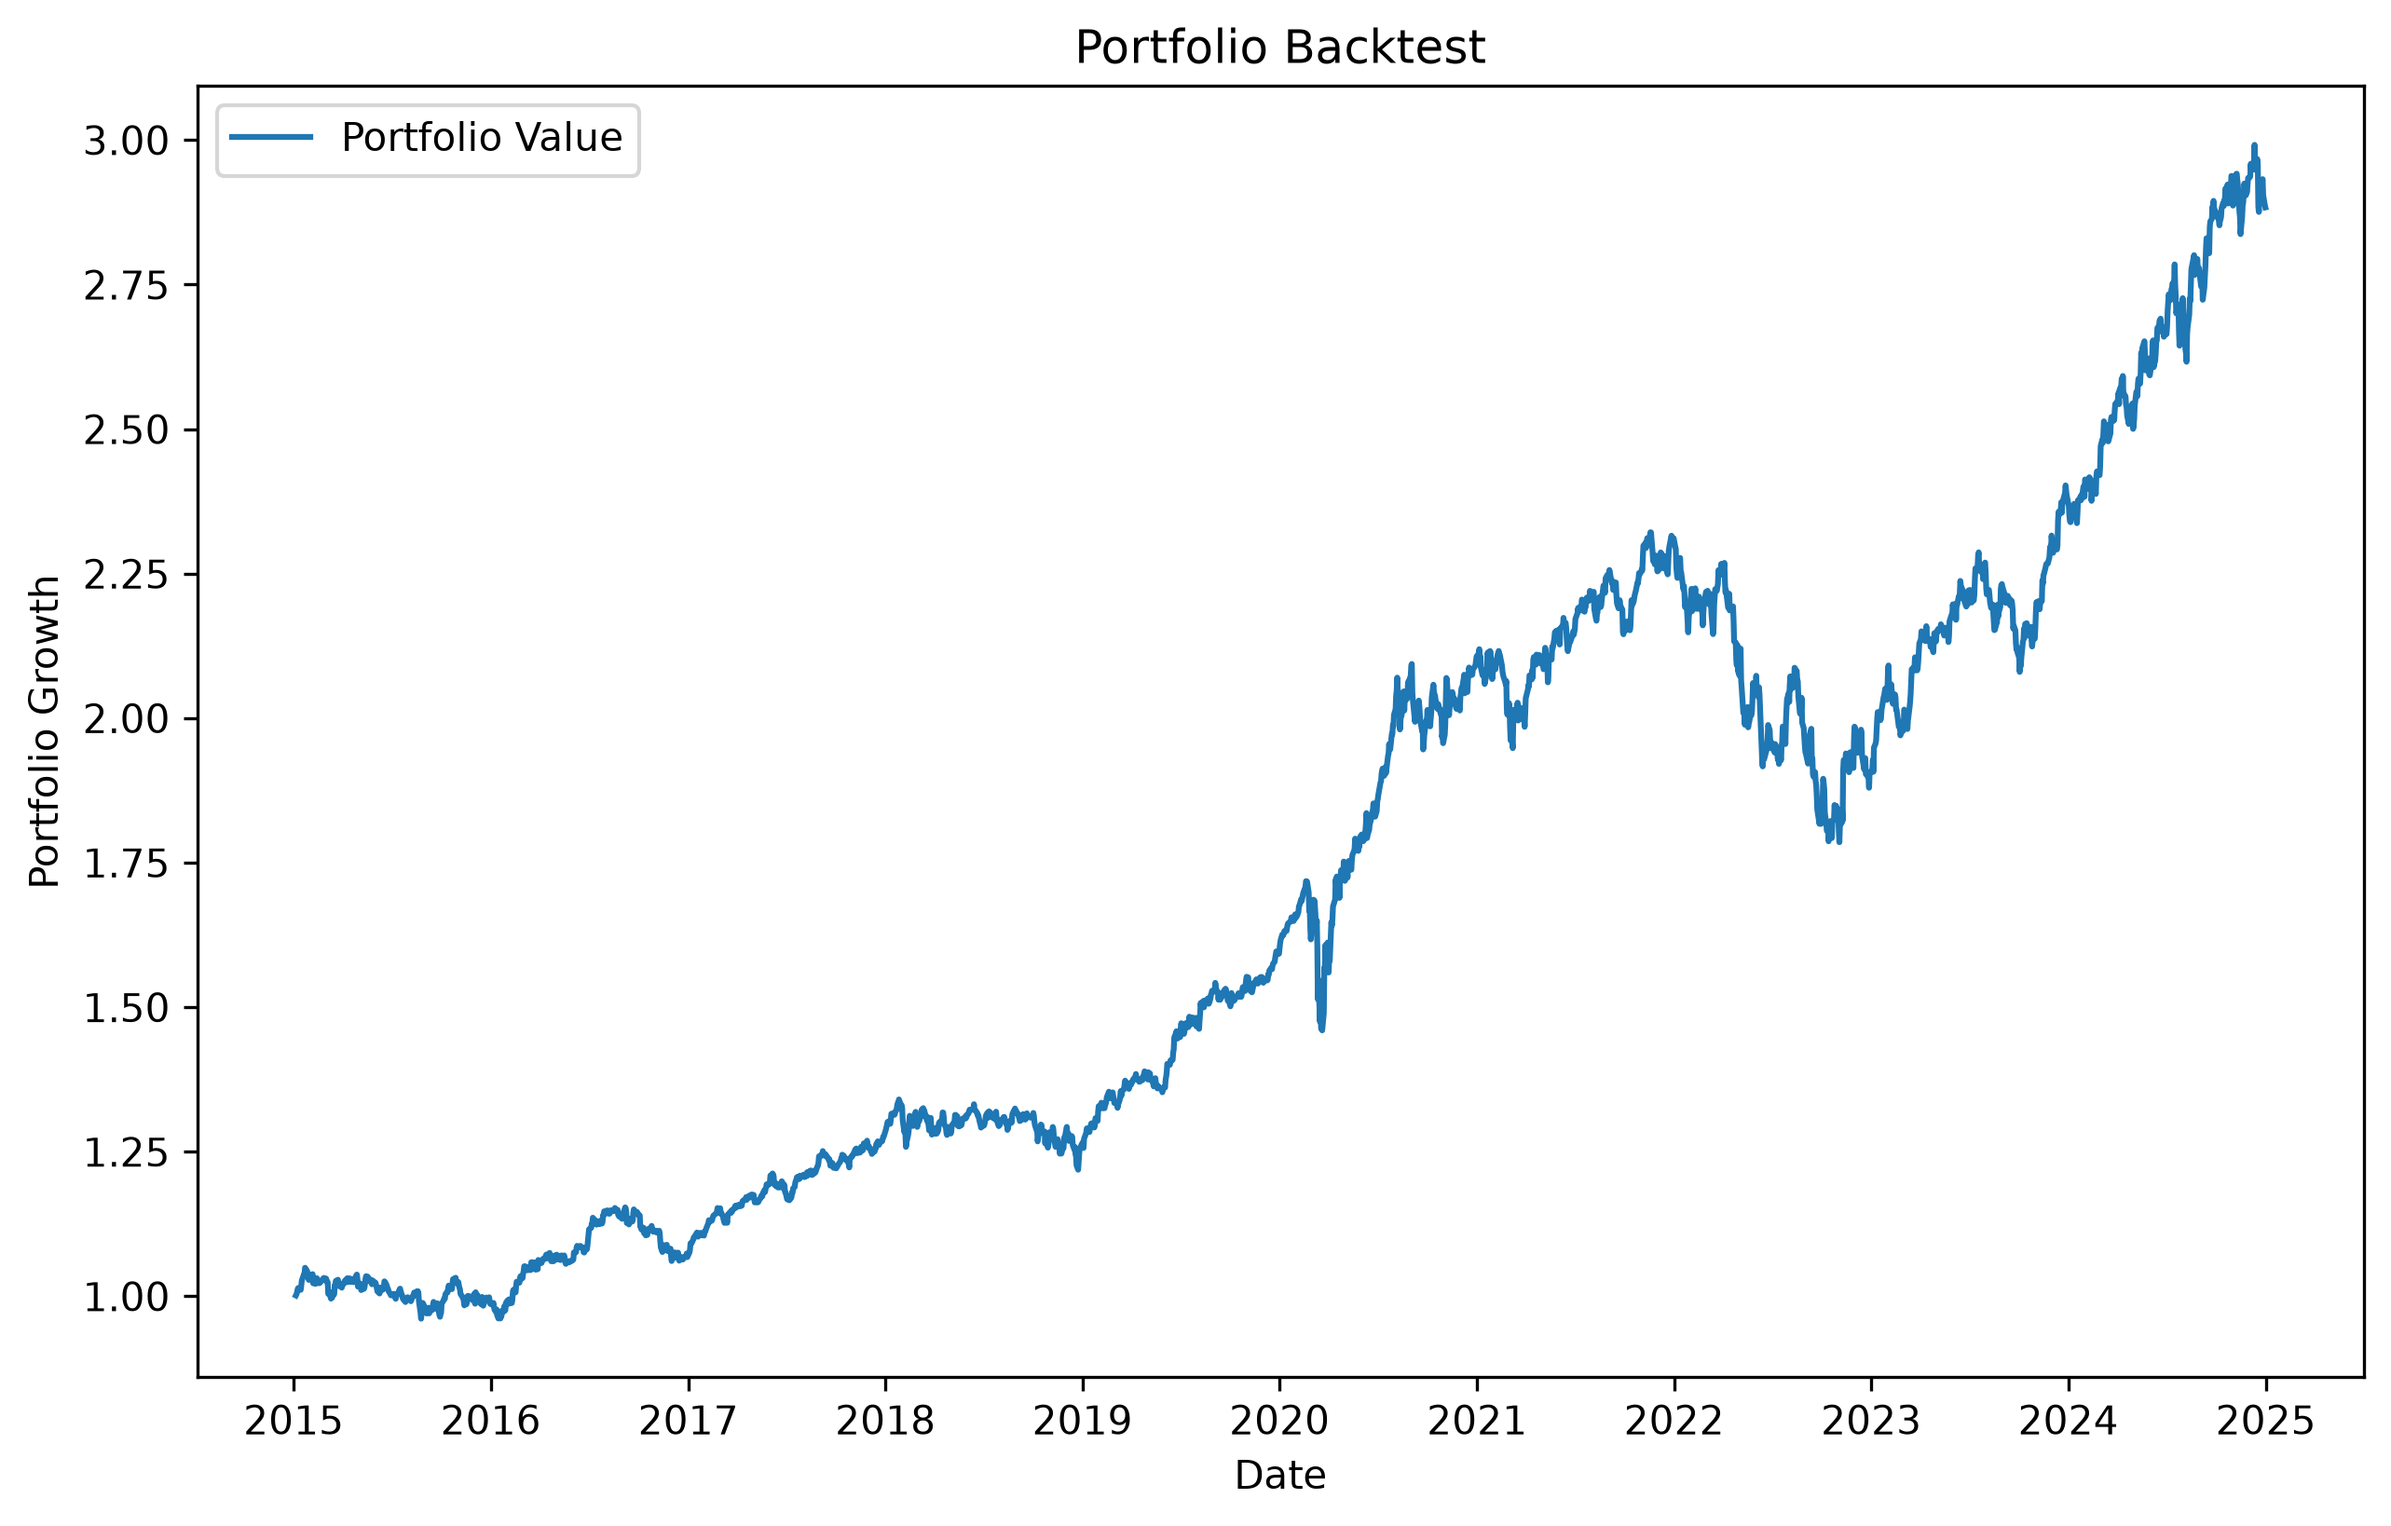
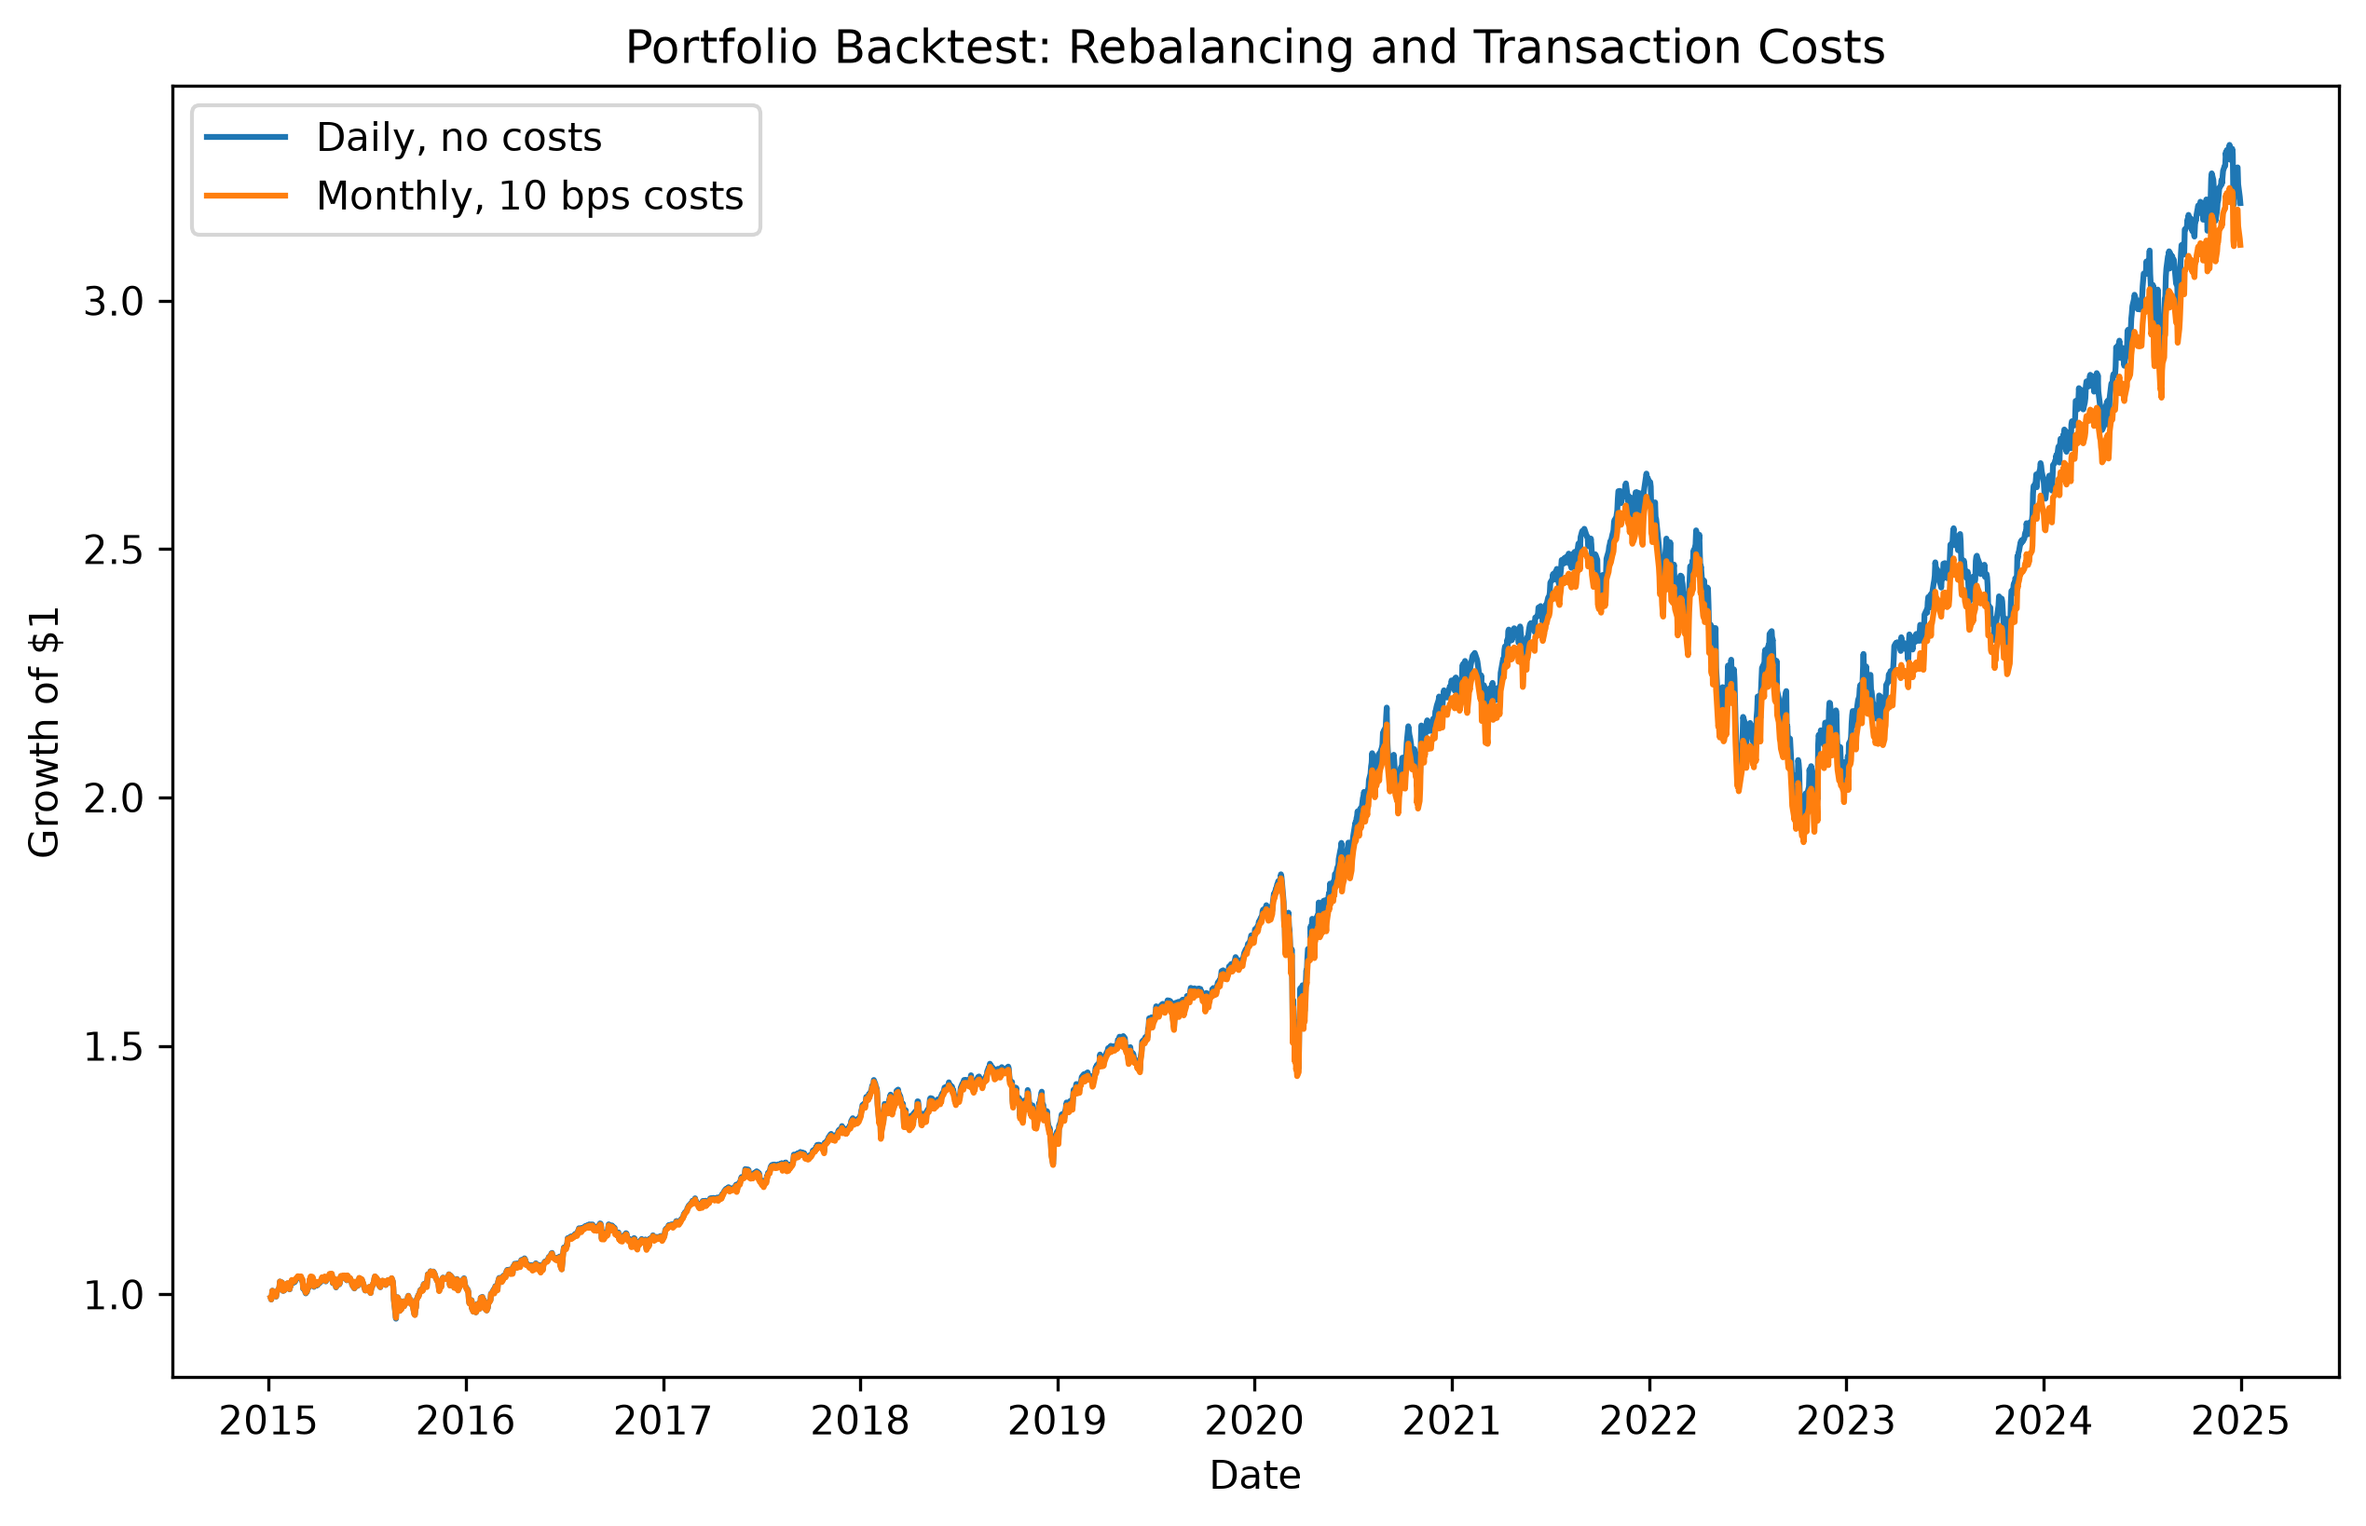
Add transaction costs and configuration rebalancing to backtest

diff --git a/backtesting.py b/backtesting.py
@@ -1,48 +1,151 @@
-import yfinance as yf
-import numpy as np
+from pathlib import Path
+
 import matplotlib.pyplot as plt
+import numpy as np
+import yfinance as yf
 
-tickers = ["SPY", "QQQ", "GLD", "TLT"]
 
-data = yf.download(
-    tickers,
-    start="2015-01-01",
-    end="2025-01-01"
+TICKERS = ["SPY", "QQQ", "GLD", "TLT"]
+TARGET_WEIGHTS = np.array([0.4, 0.3, 0.15, 0.15])
+START_DATE = "2015-01-01"
+END_DATE = "2025-01-01"
+
+# Edit these settings to compare another schedule or transaction-cost rate.
+REBALANCE_FREQUENCY = "monthly"  # "monthly" or "quarterly"
+TRANSACTION_COST_BPS = 10  # Cost per dollar traded, in basis points.
+TRADING_DAYS = 252
+
+
+def annualized_return(daily_returns):
+    return np.mean(daily_returns) * TRADING_DAYS
+
+
+def annualized_volatility(daily_returns):
+    return np.std(daily_returns, ddof=1) * np.sqrt(TRADING_DAYS)
+
+
+def maximum_drawdown(portfolio_values):
+    values_with_initial = np.insert(portfolio_values, 0, 1.0)
+    running_max = np.maximum.accumulate(values_with_initial)
+    drawdowns = values_with_initial / running_max - 1
+    return np.min(drawdowns)
+
+
+def cost_aware_backtest(asset_returns, target_weights, frequency, cost_bps):
+    period_aliases = {"monthly": "M", "quarterly": "Q"}
+    if frequency not in period_aliases:
+        raise ValueError("REBALANCE_FREQUENCY must be 'monthly' or 'quarterly'.")
+
+    period_ids = asset_returns.index.to_period(period_aliases[frequency])
+    rebalance_dates = ~period_ids.duplicated(keep="last")
+    cost_rate = cost_bps / 10_000
+
+    current_weights = target_weights.copy()
+    portfolio_value = 1.0
+    portfolio_values = []
+    daily_returns = []
+    cumulative_turnover = 0.0
+
+    for asset_daily_returns, should_rebalance in zip(
+        asset_returns.to_numpy(), rebalance_dates
+    ):
+        gross_return = np.dot(current_weights, asset_daily_returns)
+        value_after_market_return = portfolio_value * (1 + gross_return)
+        drifted_weights = (
+            current_weights * (1 + asset_daily_returns) / (1 + gross_return)
+        )
+
+        if should_rebalance:
+            # Sum of absolute weight changes counts both buys and sells.
+            turnover = np.abs(target_weights - drifted_weights).sum()
+            transaction_cost = cost_rate * turnover
+            value_after_market_return *= 1 - transaction_cost
+            current_weights = target_weights.copy()
+            cumulative_turnover += turnover
+        else:
+            current_weights = drifted_weights
+
+        daily_returns.append(value_after_market_return / portfolio_value - 1)
+        portfolio_value = value_after_market_return
+        portfolio_values.append(portfolio_value)
+
+    return (
+        np.asarray(daily_returns),
+        np.asarray(portfolio_values),
+        cumulative_turnover,
+    )
+
+
+data = yf.download(TICKERS, start=START_DATE, end=END_DATE)
+prices = data["Close"].loc[:, TICKERS]
+asset_returns = prices.pct_change().dropna()
+
+# Daily frictionless rebalancing remains the baseline for comparison.
+daily_baseline_returns = asset_returns.to_numpy() @ TARGET_WEIGHTS
+daily_baseline_values = (1 + daily_baseline_returns).cumprod()
+
+cost_aware_returns, cost_aware_values, cumulative_turnover = cost_aware_backtest(
+    asset_returns,
+    TARGET_WEIGHTS,
+    REBALANCE_FREQUENCY,
+    TRANSACTION_COST_BPS,
 )
 
-prices = data["Close"].loc[:, tickers]
+baseline_summary = {
+    "final_value": daily_baseline_values[-1],
+    "total_return": daily_baseline_values[-1] - 1,
+    "annualized_return": annualized_return(daily_baseline_returns),
+    "annualized_volatility": annualized_volatility(daily_baseline_returns),
+    "maximum_drawdown": maximum_drawdown(daily_baseline_values),
+}
+cost_aware_summary = {
+    "final_value": cost_aware_values[-1],
+    "total_return": cost_aware_values[-1] - 1,
+    "annualized_return": annualized_return(cost_aware_returns),
+    "annualized_volatility": annualized_volatility(cost_aware_returns),
+    "maximum_drawdown": maximum_drawdown(cost_aware_values),
+}
 
-returns = prices.pct_change().dropna()
-
-weights = np.array([0.4, 0.3, 0.15, 0.15])
-
-# This applies the target weights daily, so it models frictionless daily
-# rebalancing and excludes transaction costs.
-portfolio_returns = returns @ weights
-
-#If invested $1 at the start
-portfolio_value = (1 + portfolio_returns).cumprod()
-
-print("Final Portfolio Value:")
-print(portfolio_value.iloc[-1])
+lines = [
+    "PORTFOLIO BACKTEST COMPARISON",
+    f"Period: {START_DATE} to {END_DATE}",
+    "",
+    "Daily rebalancing baseline (no transaction costs)",
+    f"Final Portfolio Value: ${baseline_summary['final_value']:.4f}",
+    f"Total Return: {baseline_summary['total_return']:.2%}",
+    f"Annualized Arithmetic Return: {baseline_summary['annualized_return']:.2%}",
+    f"Annualized Volatility: {baseline_summary['annualized_volatility']:.2%}",
+    f"Maximum Drawdown: {baseline_summary['maximum_drawdown']:.2%}",
+    "",
+    f"{REBALANCE_FREQUENCY.title()} rebalancing with transaction costs",
+    f"Transaction Cost: {TRANSACTION_COST_BPS} bps per dollar traded",
+    f"Final Portfolio Value: ${cost_aware_summary['final_value']:.4f}",
+    f"Total Return: {cost_aware_summary['total_return']:.2%}",
+    f"Annualized Arithmetic Return: {cost_aware_summary['annualized_return']:.2%}",
+    f"Annualized Volatility: {cost_aware_summary['annualized_volatility']:.2%}",
+    f"Maximum Drawdown: {cost_aware_summary['maximum_drawdown']:.2%}",
+    f"Cumulative Two-Way Turnover: {cumulative_turnover:.2%}",
+]
+result = "\n".join(lines)
+print(result)
 
 plt.figure(figsize=(10, 6))
-
+plt.plot(asset_returns.index, daily_baseline_values, label="Daily, no costs")
 plt.plot(
-    portfolio_value,
-    label="Portfolio Value"
+    asset_returns.index,
+    cost_aware_values,
+    label=f"{REBALANCE_FREQUENCY.title()}, {TRANSACTION_COST_BPS} bps costs",
 )
-
-plt.title("Portfolio Backtest")
+plt.title("Portfolio Backtest: Rebalancing and Transaction Costs")
 plt.xlabel("Date")
-plt.ylabel("Portfolio Growth")
-
+plt.ylabel("Growth of $1")
 plt.legend()
 
-plt.savefig(
-    "results/backtest.png",
-    dpi=300,
-    bbox_inches="tight"
-)
+results_dir = Path("results")
+results_dir.mkdir(parents=True, exist_ok=True)
+plt.savefig(results_dir / "backtest.png", dpi=300, bbox_inches="tight")
+
+output_path = results_dir / "backtest.txt"
+output_path.write_text(result + "\n", encoding="utf-8")
 
 plt.show()

diff --git a/README.md b/README.md
@@ -96,8 +96,8 @@ Portfolio performance evaluated under hypothetical market events:
 
 ### Historical Backtesting
 
-- Daily rebalanced portfolio growth simulation, with no transaction costs
-- Long-term performance evaluation
+- Daily, frictionless baseline compared with configurable monthly or quarterly rebalancing
+- Configurable transaction costs, portfolio growth, annualized return and volatility, maximum drawdown, and turnover
 
 ### Benchmark Comparison
 
